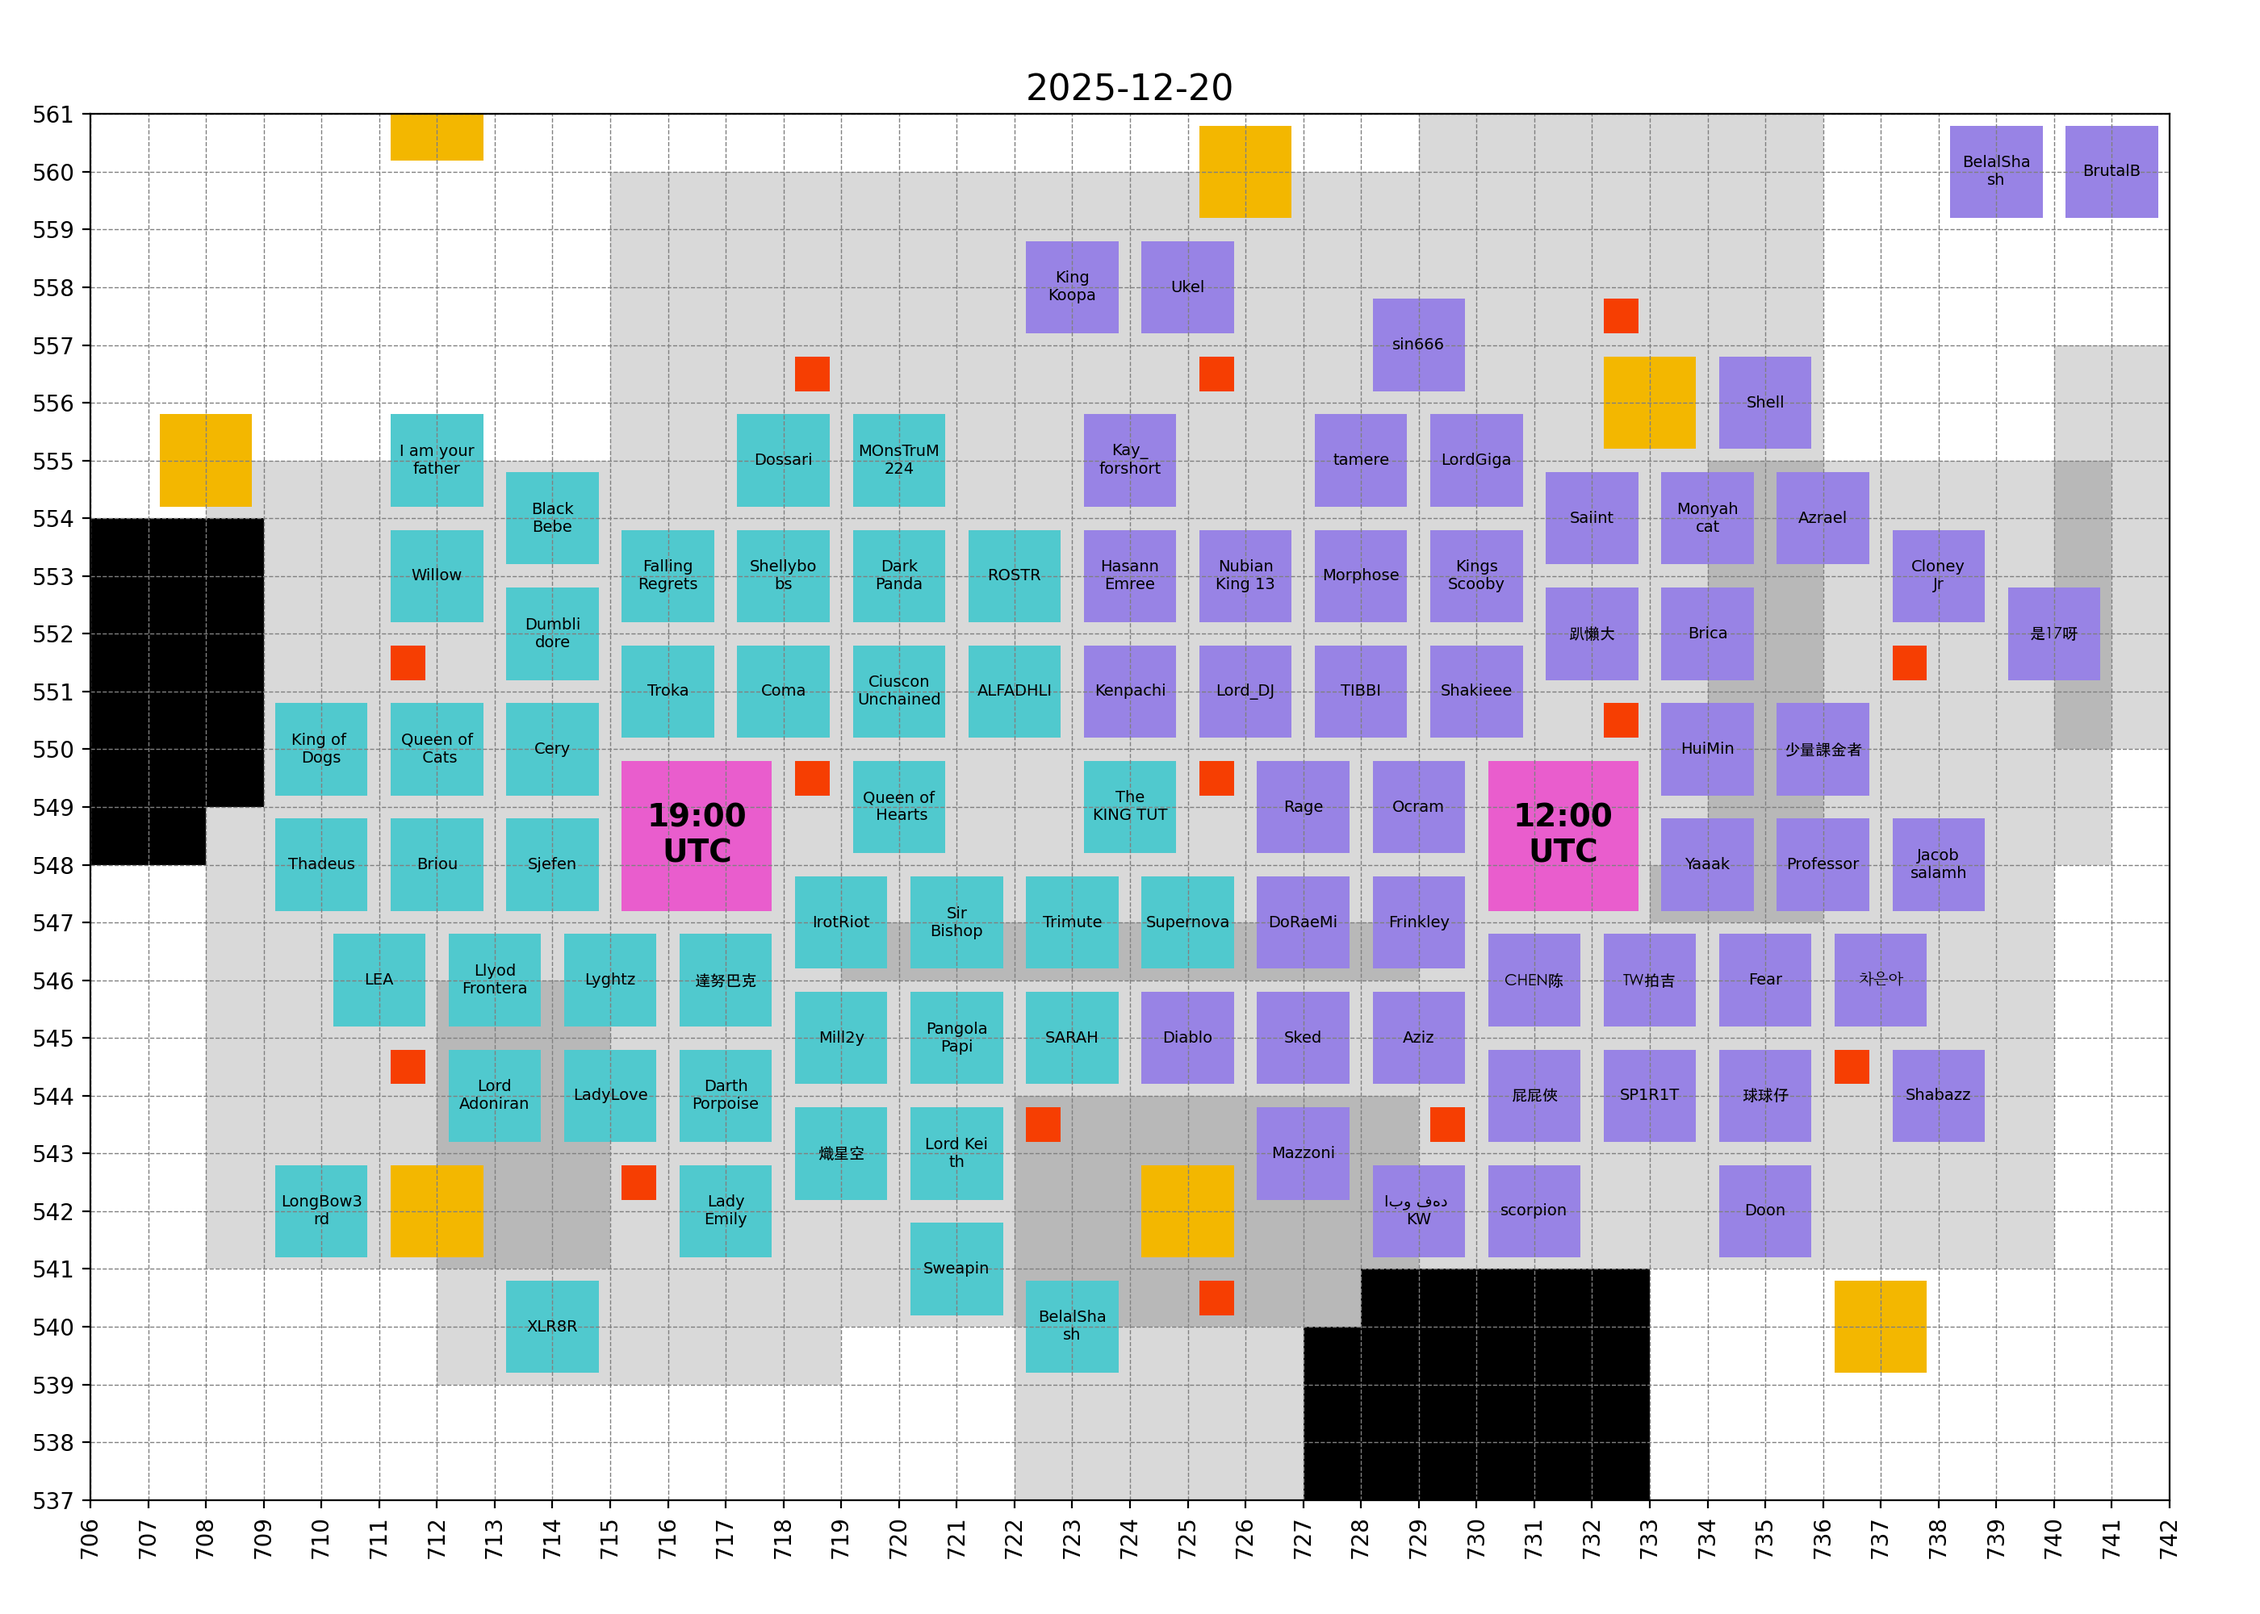
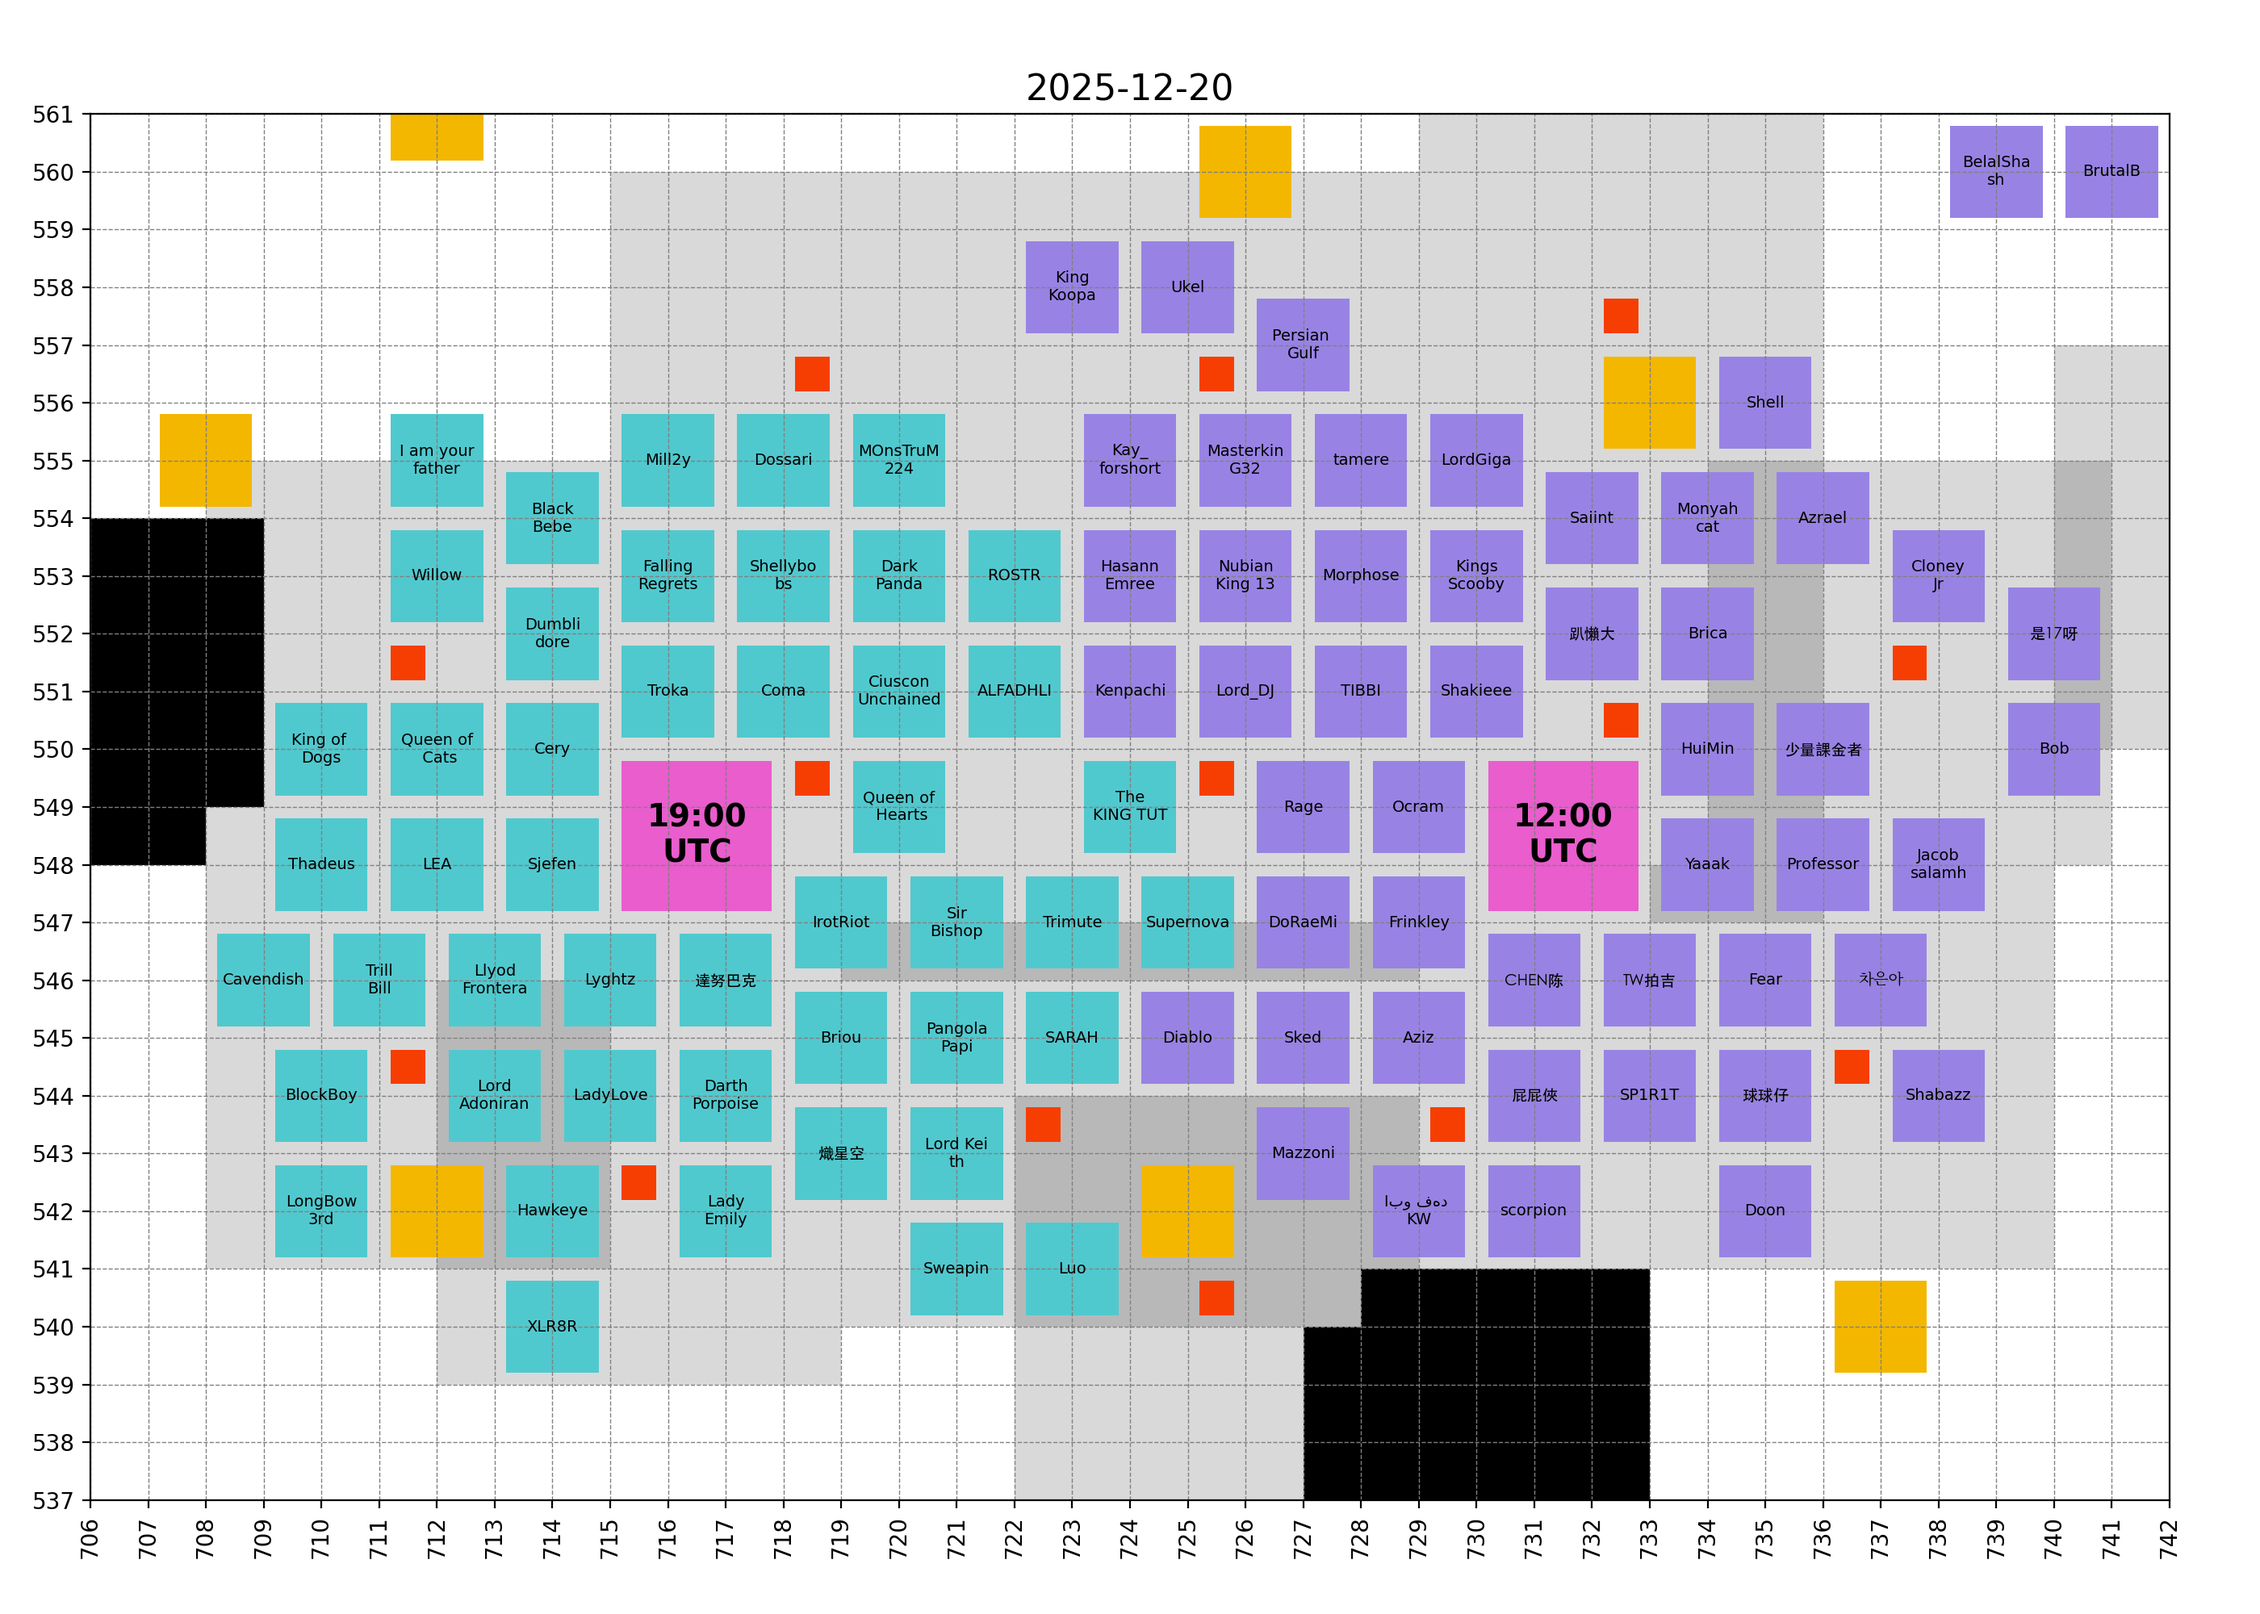
chore: auto updates

diff --git a/hive/README.md b/hive/README.md
@@ -33,10 +33,13 @@ Cities locations as of 2025-12-20:
 | Azrael           | 735 | 553 |
 | BelalShash       | 738 | 559 |
 | BlackBebe        | 713 | 553 |
+| BlockBoy         | 709 | 543 |
+| Bob              | 739 | 549 |
 | Brica            | 733 | 551 |
-| Briou            | 711 | 547 |
+| Briou            | 718 | 544 |
 | BrutalB          | 740 | 559 |
 | CHEN陈           | 730 | 545 |
+| Cavendish        | 708 | 545 |
 | Cery             | 713 | 549 |
 | CiusconUnchained | 719 | 550 |
 | Cloney Jr        | 737 | 552 |
@@ -52,6 +55,7 @@ Cities locations as of 2025-12-20:
 | Fear             | 734 | 545 |
 | Frinkley         | 728 | 546 |
 | HasannEmree      | 723 | 552 |
+| Hawkeye          | 713 | 541 |
 | HuiMin           | 733 | 549 |
 | I am your father | 711 | 554 |
 | IrotRiot         | 718 | 546 |
@@ -61,7 +65,7 @@ Cities locations as of 2025-12-20:
 | King Koopa       | 722 | 557 |
 | King of Dogs     | 709 | 549 |
 | Kings Scooby     | 729 | 552 |
-| LEA              | 710 | 545 |
+| LEA              | 711 | 547 |
 | Lady Emily       | 716 | 541 |
 | LadyLove         | 714 | 543 |
 | Llyod Frontera   | 712 | 545 |
@@ -70,15 +74,18 @@ Cities locations as of 2025-12-20:
 | Lord Keith       | 720 | 542 |
 | LordGiga         | 729 | 554 |
 | Lord_DJ          | 725 | 550 |
+| Luo              | 722 | 540 |
 | Lyghtz           | 714 | 545 |
 | MOnsTruM224      | 719 | 554 |
+| MasterkinG32     | 725 | 554 |
 | Mazzoni          | 726 | 542 |
-| Mill2y           | 718 | 544 |
+| Mill2y           | 715 | 554 |
 | Monyahcat        | 733 | 553 |
 | Morphose         | 727 | 552 |
 | Nubian King 13   | 725 | 552 |
 | Ocram            | 728 | 548 |
 | PangolaPapi      | 720 | 544 |
+| Persian Gulf     | 726 | 556 |
 | Professor        | 735 | 547 |
 | Queen of Cats    | 711 | 549 |
 | Queen of Hearts  | 719 | 548 |
@@ -100,6 +107,7 @@ Cities locations as of 2025-12-20:
 | TW拍吉           | 732 | 545 |
 | Thadeus          | 709 | 547 |
 | The KING TUT     | 723 | 548 |
+| TrillBill        | 710 | 545 |
 | Trimute          | 722 | 546 |
 | Troka            | 715 | 550 |
 | Ukel             | 724 | 557 |
@@ -107,7 +115,6 @@ Cities locations as of 2025-12-20:
 | XLR8R            | 713 | 539 |
 | Yaaak            | 733 | 547 |
 | scorpion         | 730 | 541 |
-| sin666           | 728 | 556 |
 | tamere           | 727 | 554 |
 | ابو فهد KW       | 728 | 541 |
 | 少量課金者       | 735 | 549 |
